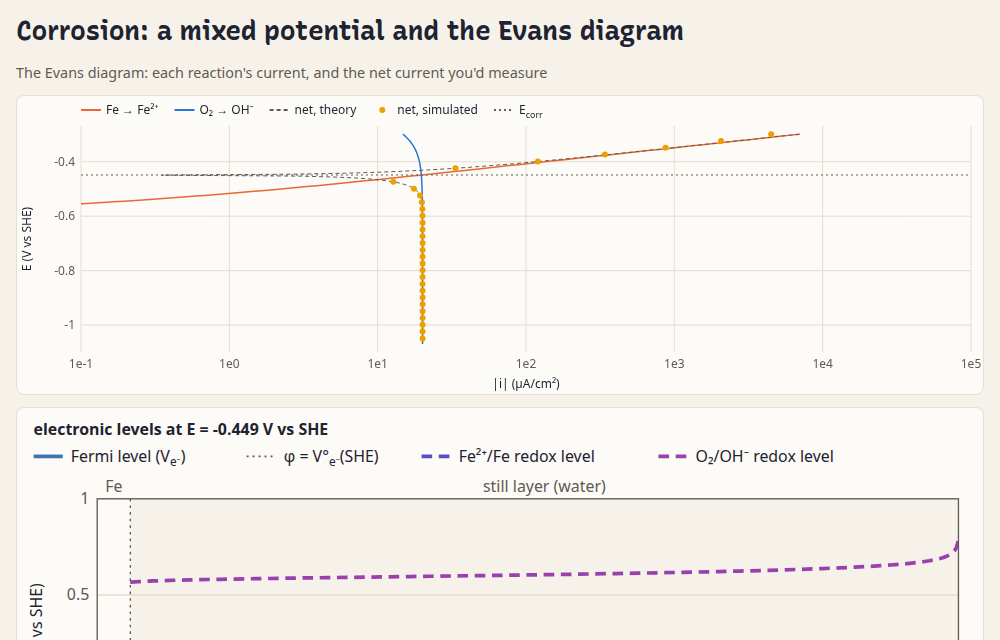
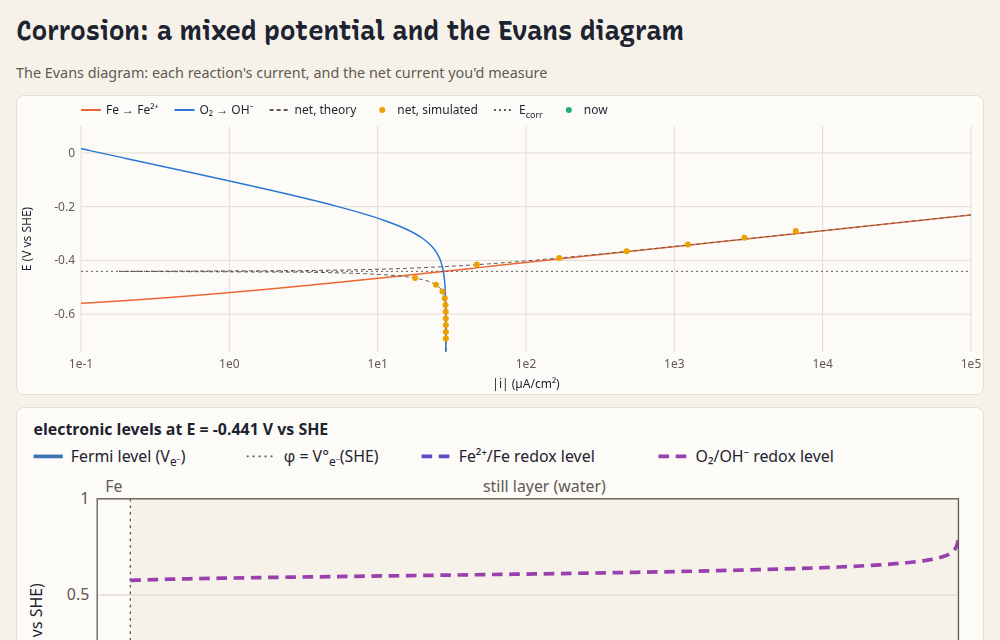
Corrosion page: after an open-brief review, the mechanism right, and what real corrosion has
- The anodic gap was put down half to the Fe²⁺ as 'a dilute trace'. It's all
  the solution's potential at the face (2.4 mV at 0.1 V up): half ohmic, half a
  diffusion potential from the FeCl₂ diffusing out; with it taken out the two
  agree to 1e-4 (tested). The simulation is the curve a bulk reference sees.
- The window stops at E_corr − 0.25 V: below about −0.7 V vs SHE real steel
  evolves hydrogen, which the model leaves out ('far below' was wrong).
- The profiles' Fe²⁺ and OH⁻ would be 10⁵ past ferrous hydroxide's solubility,
  and O₂ oxidises the Fe²⁺ in the layer: said, and that it can bring the rate
  down to two thirds of oxygen's supply.
- Cathodic protection (0.1 V down: the iron at 1% of its rate, for about
  oxygen's limit) and how i_corr is measured (anodic Tafel extrapolation;
  Stern–Geary with the anodic slope alone), each tested; Wagner–Traud cited.
- O₂ salted out to 0.21 mM; the still layer at most 1 mm, 0.56 by default
  (E_corr −0.44 V, in steel-in-seawater's range); the diagram from +0.1 V, so
  oxygen's Tafel line shows; a 'now' marker; the readout to five digits, in
  words and with minus signs; E°(Fe) and the ideal conductivity flagged.

diff --git a/demos/corrosion.html b/demos/corrosion.html
@@ -26,8 +26,8 @@
     reaction's current against potential, shows where; driving the iron away from it gives the polarization
     curve you'd measure. Vary how still the water is, and the potential. (More about the model below.)</p>
   <div class="controls">
-    <label>still layer <input id="L" type="range" min="-4.25" max="-2.75" step="0.25" value="-3"><output id="LOut"></output></label>
-    <label>E − E<sub>corr</sub> <input id="dE" type="range" min="-0.6" max="0.15" step="0.01" value="0"><output id="dEOut"></output></label>
+    <label>still layer <input id="L" type="range" min="-4.25" max="-3" step="0.25" value="-3.25"><output id="LOut"></output></label>
+    <label>polarization <input id="dE" type="range" min="-0.25" max="0.15" step="0.01" value="0"><output id="dEOut"></output></label>
     <span class="readout" id="status"></span>
   </div>
   <div class="grid">
@@ -38,26 +38,47 @@
   <h2>About this simulation</h2>
   <p>Two reactions share one piece of metal, so they share its Fermi level, and with no current leaving
     the metal, the electrons one makes the other must take. The iron settles where they balance, the
-    corrosion (or mixed) potential E<sub>corr</sub>, between the iron's own redox level and oxygen's,
-    equilibrium with neither: iron goes on dissolving at the corrosion current i<sub>corr</sub>, and oxygen
-    goes on being reduced at the same rate. On the Evans diagram (E against log|i|) that's where the iron's
-    anodic line crosses oxygen's cathodic curve. Oxygen's curve bends over to a plateau, its limiting
-    current 4FDc/L, set by how fast it diffuses in through the still layer: so where the crossing falls on
-    that plateau, the corrosion rate is oxygen's supply, and stirring the water (a thinner layer) speeds the
-    corrosion in proportion. (Far below E<sub>corr</sub>, water's own reduction to hydrogen would take over;
-    it's left out here, so the plateau runs on.)</p>
+    corrosion (or mixed) potential E<sub>corr</sub> (Wagner and Traud, 1938), between the iron's own redox
+    level and oxygen's, in equilibrium with neither: iron goes on dissolving at the corrosion current
+    i<sub>corr</sub>, and oxygen goes on being reduced at the same rate. On the Evans diagram (E against
+    log|i|, in the form Wagner and Traud's theory gives it) that's where the iron's anodic line crosses
+    oxygen's cathodic curve. Oxygen's curve comes down its Tafel line and bends over to a plateau, its
+    limiting current 4FDc/L, set by how fast it diffuses in through the still layer. Where the crossing
+    falls on that plateau, as it does for a layer of half a millimetre, the corrosion rate is oxygen's
+    supply, and stirring the water (a thinner layer) speeds corrosion as 1/L; for the thinnest layers here
+    the crossing moves up the bend, and the kinetics share the control.</p>
+  <p>Driven below E<sub>corr</sub>, the iron's dissolution dies away while oxygen's plateau carries on: that is
+    cathodic protection, and 0.1 V below E<sub>corr</sub> the iron already dissolves at about 1% of its free
+    rate, for a protection current of about oxygen's limit. Driven above, the iron's current grows tenfold
+    every 60 mV (its Tafel slope, 2.3RT/(2(1 − α)F) with α = ½). That is also how i<sub>corr</sub> is
+    measured: the anodic Tafel line extrapolated back to E<sub>corr</sub> gives it within a few percent here
+    (the cathodic branch, a plateau, has no line to extrapolate), and so does the polarization resistance,
+    R<sub>p</sub> = dE/di at E<sub>corr</sub>, through Stern and Geary's i<sub>corr</sub> =
+    B/R<sub>p</sub> (1957), with B the anodic Tafel slope over 2.3 alone, the cathode being
+    diffusion-limited.</p>
   <p>The lines are closed forms, worked out apart from the solver: Butler–Volmer for each reaction at the
     iron's face, with the Fe²⁺ the iron makes held back by diffusion through the layer (its back reaction
     sees the surface's Fe²⁺, not the bulk's), and oxygen's supply through the layer in series with its
-    kinetics. The points are the simulation's net current; the readout gives the two corrosion potentials
-    and currents, which agree to four digits, and the cathodic side agrees everywhere. Above
-    E<sub>corr</sub> the iron's current grows tenfold every 60 mV, and by 0.1 V up the simulation runs about
-    10% below the closed form: half of that is the ohmic drop through the still layer (the solution at the
-    face 3 mV up), the rest comes with the Fe²⁺ piling up to tens of millimolar at the iron, where the
-    closed form treats it as a dilute trace. The model leaves out what makes real corrosion hard: the Fe²⁺ and OH⁻ meeting as rust,
-    films that slow the iron (passivity), chloride's pitting, and an iron surface that isn't one uniform
-    electrode. Its rate constants are illustrative, chosen to put E<sub>corr</sub> where steel in sea water
-    sits, around −0.45 V vs SHE; the potentials are on an ideal-solution scale, from table μ°.</p>
+    kinetics. The points are the simulation's net current, and the readout gives both corrosion potentials
+    and currents: they agree to 0.1 mV and five digits, and the cathodic side agrees everywhere. Well above
+    E<sub>corr</sub> the simulation runs below the closed form (9% by 0.1 V up), all of it the solution's
+    potential at the face, 2.4 mV there: about half ohmic drop through the layer, and half a diffusion
+    potential from the FeCl₂ built up at the iron diffusing out (Fe²⁺ is slower than Cl⁻). With that taken
+    out the two agree to 10⁻⁴. The simulation is the more realistic curve here: it has what a reference
+    electrode in the bulk would see.</p>
+  <p>What the model leaves out matters. The profiles below are its, and in a real cell they couldn't last:
+    with Fe²⁺ and OH⁻ together at the face, ferrous hydroxide would be some 10⁵ times past its solubility,
+    and dissolved oxygen oxidises Fe²⁺ in seconds at the pH there. So in reality rust forms within the layer,
+    and the oxygen it takes there never reaches the metal; at most that brings the iron's rate down to two
+    thirds of oxygen's supply. Below about −0.7 V vs SHE, on real steel, water's own reduction to hydrogen
+    joins oxygen's, which is where the window stops. Also left out: films that slow the iron (passivity),
+    chloride's pitting, and an iron surface that isn't one uniform electrode. Its rate constants are
+    illustrative, chosen to put E<sub>corr</sub> in the range measured for steel in sea water (−0.35 to
+    −0.45 V vs SHE), here at its negative end. Oxygen's reduction is written as one four-electron step with
+    α = 0.125, which gives the 118 mV per decade of a rate-determining first electron. The dissolved oxygen
+    is 0.21 mM, salted out of air-saturated 0.5 M NaCl. The potentials are on an ideal-solution scale, from
+    table μ°: E°(Fe²⁺/Fe) is −0.41 V here, where tables give −0.44 V; and the solution's conductivity is the
+    ideal one, a third above real 0.5 M NaCl's.</p>
   <p>The level diagram is the mixed potential itself: the iron's Fermi level, and the two couples' redox
     levels across the still layer, drawn in volts (electron energy is down the page). Electrons leave the
     iron's redox level for the Fermi level (dissolution) and go on up to oxygen's (reduction); the Fermi
@@ -71,7 +92,7 @@ import { chart, colors } from './plot.js';
 import { levels, profiles, showCode, fromQuery } from './common.js';
 
 const T = 298.15, RT = GAS_CONSTANT * T, f = FARADAY / RT;
-const cO2 = 0.26, DO2 = 2e-9, muO2 = 16.4e3; // dissolved O₂ in air-saturated water (mol/m³), its D (m²/s) and μ° (J/mol, at 1 M)
+const cO2 = 0.21, DO2 = 2e-9, muO2 = 16.4e3; // dissolved O₂ in air-saturated 0.5 M NaCl (mol/m³, salted out from water's 0.26), its D (m²/s) and μ° (J/mol, at 1 M)
 const library = aqueous(['Na+', 'Cl-', 'Fe2+', 'OH-', 'H+'], { epsr: 0 });
 library.species.push({ name: 'O2', z: 0, cRef: 1000 }, { name: 'e-', z: -1 });
 library.materials.water.species.O2 = { D: DO2, mu0: muO2 };
@@ -96,7 +117,8 @@ const electrode = (drive, L) =>
   });
 
 // Theory: each reaction's current (A/m², anodic +) at the iron's potential E, with the solution's φ = 0
-// at the face (the SHE scale; the iR through the layer is a few µV). Standard potentials from the μ°.
+// at the face (the SHE scale; at E_corr it's tens of µV there, a diffusion potential, and well above E_corr
+// mV, which the simulation has and this leaves out). Standard potentials from the μ°.
 const E0Fe = IONS['Fe2+'].mu0 / (2 * FARADAY);
 const E0O2 = (muO2 + 2 * H2O - 4 * IONS['OH-'].mu0) / (4 * FARADAY);
 function currents(E, L) {
@@ -129,7 +151,7 @@ function corrosion(L) {
 const LIn = document.getElementById('L'), dEIn = document.getElementById('dE');
 for (const el of [LIn, dEIn]) fromQuery(el);
 const L = () => 10 ** +LIn.value;
-const dEs = Array.from({ length: 31 }, (_, k) => 0.15 - 0.025 * k);
+const dEs = Array.from({ length: 17 }, (_, k) => 0.15 - 0.025 * k);
 let run;
 function rebuild() {
   const rest = new Device(electrode({ I: 0 }, L())).solve(); // left to itself
@@ -142,7 +164,7 @@ function rebuild() {
 }
 const labels = () => {
   document.getElementById('LOut').textContent = `${L() < 1e-3 ? `${Math.round(L() * 1e6)} µm` : `${(L() * 1e3).toPrecision(2)} mm`}`;
-  document.getElementById('dEOut').textContent = `${+dEIn.value >= 0 ? '+' : '−'}${Math.abs(+dEIn.value).toFixed(2)} V`;
+  document.getElementById('dEOut').textContent = `${+dEIn.value >= 0 ? '+' : '−'}${Math.abs(+dEIn.value).toFixed(2)} V from the corrosion potential`;
 };
 const uA = (i) => i * 100; // A/m² to µA/cm²
 function update() {
@@ -150,24 +172,26 @@ function update() {
   const { rest, Ecorr, dev, sim, theory } = run, E = Ecorr + +dEIn.value;
   const icorr = 2 * FARADAY * -rest.interfaces[0].rates[0]; // the iron's dissolution, A/m²
   const mmPerYear = (icorr / (2 * FARADAY)) * (0.05585 / 7874) * 3.156e7 * 1e3; // mol/(m²·s) to mm of iron a year
+  const minus = (t) => t.replace('-', '−');
   document.getElementById('status').textContent =
-    `E_corr ${Ecorr.toFixed(3)} V vs SHE (theory ${theory.E.toFixed(3)}) · i_corr ${uA(icorr).toPrecision(3)} µA/cm² (theory ${uA(theory.i).toPrecision(3)}), ` +
+    `corrosion potential ${minus(Ecorr.toFixed(4))} V vs SHE (theory ${minus(theory.E.toFixed(4))}) · corrosion current ${uA(icorr).toPrecision(5)} µA/cm² (theory ${uA(theory.i).toPrecision(5)}), ` +
     `${Math.round((100 * icorr) / currents(Ecorr, L()).limit)}% of oxygen's limit · ${mmPerYear.toPrecision(2)} mm of iron a year`;
+  dev.set({ contacts: { left: { V: E } } });
+  const sol = dev.solve();
   // Evans: E against log|i|, the partial currents as lines, the measured net current as points.
-  const Et = Array.from({ length: 221 }, (_, k) => Ecorr + 0.15 - 0.0035 * k), part = Et.map((e) => currents(e, L()));
+  const Et = Array.from({ length: 301 }, (_, k) => 0.1 - ((0.1 - (Ecorr - 0.3)) * k) / 300), part = Et.map((e) => currents(e, L())); // oxygen's Tafel line shows from +0.1 V
   const pos = (v) => (v > 0 ? uA(v) : NaN);
   chart(document.getElementById('evans'), {
-    xlabel: '|i| (µA/cm²)', ylabel: 'E (V vs SHE)', logx: true, xlim: [0.1, 1e5], ylim: [Ecorr - 0.65, Ecorr + 0.18],
+    xlabel: '|i| (µA/cm²)', ylabel: 'E (V vs SHE)', logx: true, xlim: [0.1, 1e5], ylim: [Ecorr - 0.3, 0.1],
     series: [
       { x: part.map((c) => pos(c.Fe)), y: Et, color: colors[1], width: 1.5, label: 'Fe → Fe²⁺' },
       { x: part.map((c) => pos(-c.O2)), y: Et, color: colors[0], width: 1.5, label: 'O₂ → OH⁻' },
       { x: part.map((c) => pos(Math.abs(c.Fe + c.O2))), y: Et, color: 'var(--muted)', width: 1, dash: [4, 3], label: 'net, theory' },
       { x: sim.map((i) => pos(Math.abs(i))), y: dEs.map((d) => Ecorr + d), color: colors[3], marker: true, width: 0, label: 'net, simulated' },
       { x: [0.1, 1e5], y: [Ecorr, Ecorr], color: 'var(--muted)', width: 1, dash: [2, 3], label: 'E_corr' },
+      { x: [pos(Math.abs(sol.terminals.left.current))], y: [E], color: colors[2], marker: true, width: 0, label: 'now' },
     ],
   });
-  dev.set({ contacts: { left: { V: E } } });
-  const sol = dev.solve();
   levels(document.getElementById('levels'), sol, {
     title: `electronic levels at E = ${E.toFixed(3)} V vs SHE`,
     species: ['e-'],

diff --git a/test/demos.test.js b/test/demos.test.js
@@ -290,23 +290,41 @@ test('demos/randles.html: the Randles circuit, from the physics, is the simulate
 });
 
 test('demos/corrosion.html: the mixed potential and the Evans diagram against their closed forms, as the page says', async () => {
-  const { Device, FARADAY } = await import('../src/index.js');
+  const { Device, FARADAY, GAS_CONSTANT } = await import('../src/index.js');
+  const { IONS } = await import('../src/kit.js');
   const { electrode, net, currents, corrosion } = await pageTheory('corrosion.html', ['electrode', 'net', 'currents', 'corrosion']);
-  for (const L of [10 ** -4.25, 1e-3, 10 ** -2.75]) {
-    // "the two corrosion potentials and currents, which agree to four digits"
+  const B = (GAS_CONSTANT * 298.15) / FARADAY; // the anodic Tafel slope over 2.3, with α = ½ for two electrons
+  for (const L of [10 ** -4.25, 10 ** -3.25, 1e-3]) {
+    // "they agree to 0.1 mV and five digits"
     const rest = new Device(electrode({ I: 0 }, L)).solve(), th = corrosion(L), E = rest.terminals.left.V;
-    const icorr = 2 * FARADAY * -rest.interfaces[0].rates[0];
-    assert.ok(rest.converged && Math.abs(E - th.E) < 2e-4 && Math.abs(icorr / th.i - 1) < 1e-4, `${L} m: E_corr ${E} against ${th.E}, i_corr ${icorr} against ${th.i}`);
-    // "about −0.4 V vs SHE" (for the default, 1 mm), and the corrosion current near oxygen's limit where the layer is thick
-    if (L === 1e-3) assert.ok(Math.abs(E + 0.45) < 0.03 && icorr / currents(E, L).limit > 0.9, `${E}, ${icorr / currents(E, L).limit}`);
-    // "the cathodic side agrees everywhere"; "by 0.1 V up ... about 10% below the closed form"
+    const icorr = 2 * FARADAY * -rest.interfaces[0].rates[0], lim = currents(E, L).limit;
+    assert.ok(rest.converged && Math.abs(E - th.E) < 1e-4 && Math.abs(icorr / th.i - 1) < 1e-5, `${L} m: E_corr ${E} against ${th.E}, i_corr ${icorr} against ${th.i}`);
     const dev = new Device(electrode(E, L));
     dev.solve();
-    for (const d of [-0.6, -0.4, -0.2, -0.05, 0.1]) {
-      dev.set({ contacts: { left: { V: E + d } } });
-      const sol = dev.solve(), ratio = sol.terminals.left.current / net(E + d, L);
-      assert.ok(sol.converged && sol.warnings.length === 0, sol.warnings.join(' '));
-      assert.ok(d < 0 ? Math.abs(ratio - 1) < 1e-3 : ratio > 0.85 && ratio < 0.96, `${L} m, ${d} V: ${ratio}`);
+    const at = (d) => (dev.set({ contacts: { left: { V: E + d } } }), dev.solve());
+    if (L === 10 ** -3.25) {
+      // the default: "in the range measured for steel in sea water (−0.35 to −0.45 V vs SHE), here at its
+      // negative end"; "on that plateau"; "0.1 V below ... about 1% of its free rate, for a protection current
+      // of about oxygen's limit"; Tafel extrapolation and Stern–Geary "within a few percent"
+      const prot = currents(E - 0.1, L), tafel = 2 * FARADAY * 5e-6 * Math.exp((E - IONS['Fe2+'].mu0 / (2 * FARADAY)) / B); // the anodic Tafel line alone, at E_corr
+      const Rp = 2e-3 / (at(1e-3).terminals.left.current - at(-1e-3).terminals.left.current);
+      assert.ok(E < -0.42 && E > -0.45 && icorr / lim > 0.9, `${E} V, ${icorr / lim} of the limit`);
+      assert.ok(prot.Fe / icorr < 0.02 && -prot.O2 / lim > 0.98, `${prot.Fe / icorr}, ${-prot.O2 / lim}`);
+      assert.ok(Math.abs((Rp * icorr) / B - 1) < 0.05 && Math.abs(tafel / icorr - 1) < 0.05, `R_p·i_corr ${Rp * icorr} against ${B}; Tafel ${tafel / icorr}`);
+      // "9% by 0.1 V up, all of it the solution's potential at the face, 2.4 mV there: about half ohmic drop";
+      // "with that taken out the two agree to 10⁻⁴"
+      const up = at(0.1), g = up.region.indexOf(1), phi = up.phi[g], i = up.terminals.left.current;
+      const kappa = ((FARADAY * FARADAY) / (GAS_CONSTANT * 298.15)) * (IONS['Na+'].D * 500 + IONS['Cl-'].D * 500), ohmic = (i * L) / kappa;
+      const c = currents(E + 0.1 - phi, L);
+      assert.ok(Math.abs(i / net(E + 0.1, L) - 0.91) < 0.01 && Math.abs(phi - 2.4e-3) < 1e-4 && ohmic / phi > 0.4 && ohmic / phi < 0.6, `${i / net(E + 0.1, L)}, φ ${phi}, ohmic ${ohmic}`);
+      assert.ok(Math.abs(i / (c.Fe + c.O2) - 1) < 2e-4, `with φ taken out: ${i / (c.Fe + c.O2)}`);
+    }
+    // "for the thinnest layers ... the kinetics share the control"
+    if (L === 10 ** -4.25) assert.ok(icorr / lim < 0.6, `${icorr / lim}`);
+    // "the cathodic side agrees everywhere"
+    for (const d of [-0.25, -0.1, -0.05]) {
+      const sol = at(d);
+      assert.ok(sol.converged && sol.warnings.length === 0 && Math.abs(sol.terminals.left.current / net(E + d, L) - 1) < 1e-3, `${L} m, ${d} V`);
     }
   }
 });
